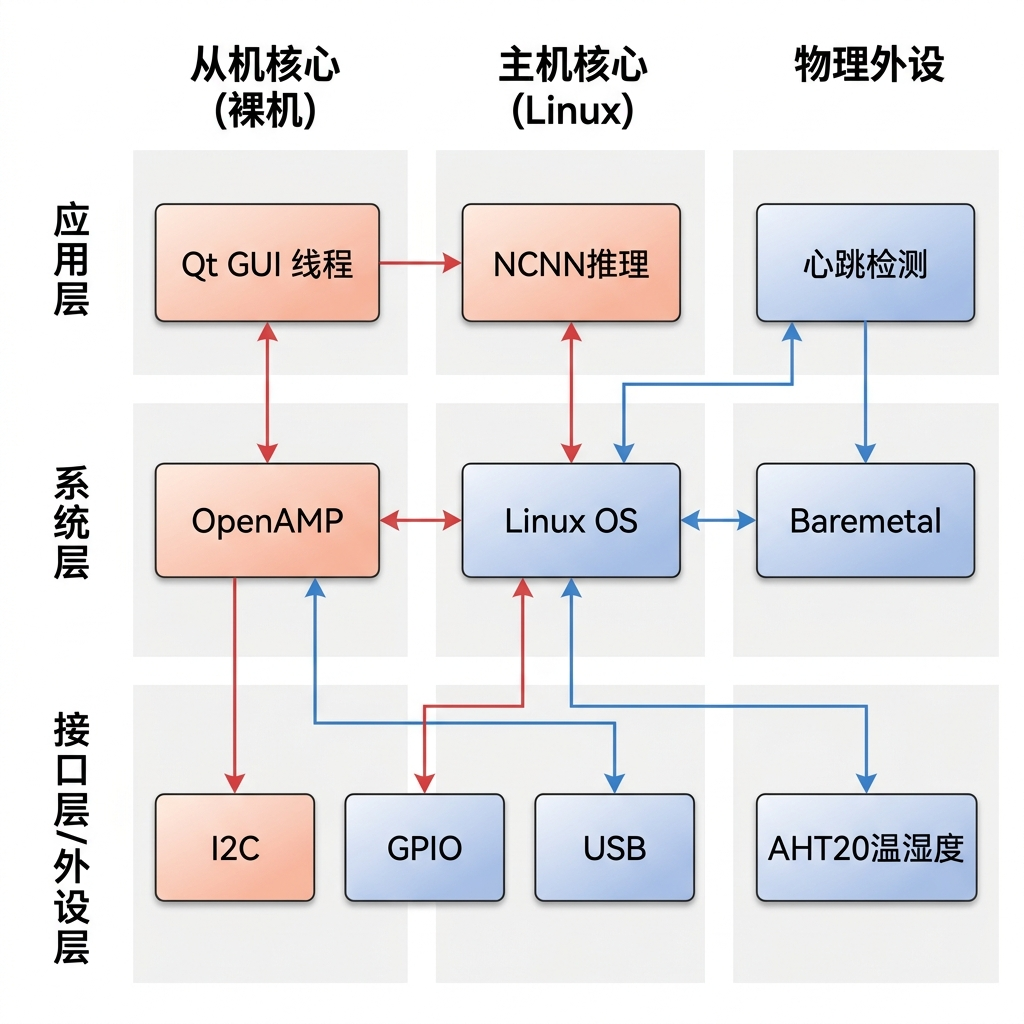
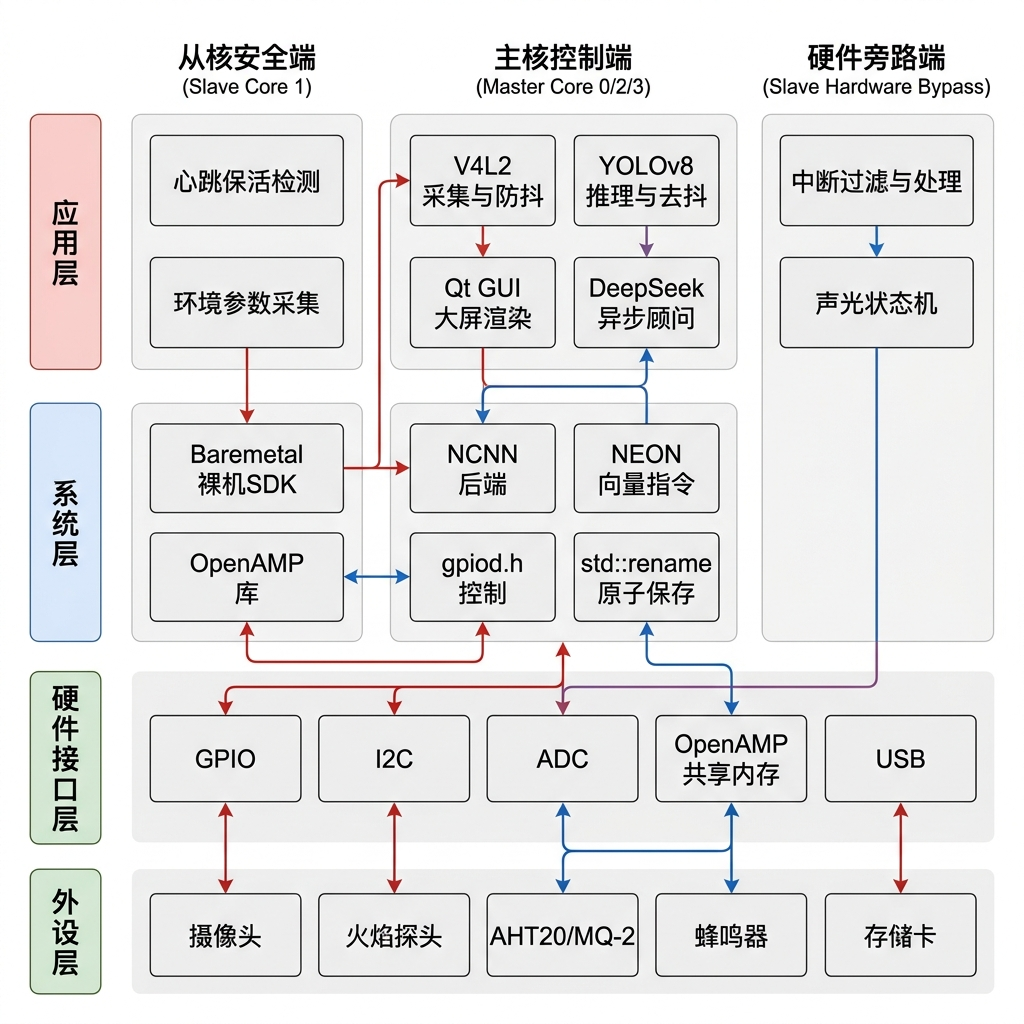
docs: 增加0.2大纲系统框架图并更新Markdown说明

diff --git a/Phytium_PPE_System_SourceCode/docs/system_diagrams.md b/Phytium_PPE_System_SourceCode/docs/system_diagrams.md
@@ -4,7 +4,7 @@
 
 ### 📸 CICC 答辩标准系统架构图 (0.2.1)
 *   **精简概要版**：
-    ![CICC 答辩系统架构图 - 标准版](file:///C:/Users/30406/.gemini/antigravity/brain/c0ec0f77-d185-471b-bcc1-95b86fc3c523/ppe_system_architecture_1783167215642.png)
+    ![CICC 答辩系统架构图 - 标准版](file:///C:/Users/30406/.gemini/antigravity/brain/c0ec0f77-d185-471b-bcc1-95b86fc3c523/ppe_system_framework_layout_1783167968144.png)
 *   **高集成全功能版**（包含双向心跳、FMEA自愈、无锁队列等所有深度功能点）：
     ![CICC 答辩系统架构图 - 高集成版](file:///C:/Users/30406/.gemini/antigravity/brain/c0ec0f77-d185-471b-bcc1-95b86fc3c523/ppe_detailed_architecture_1783167340529.png)
 
